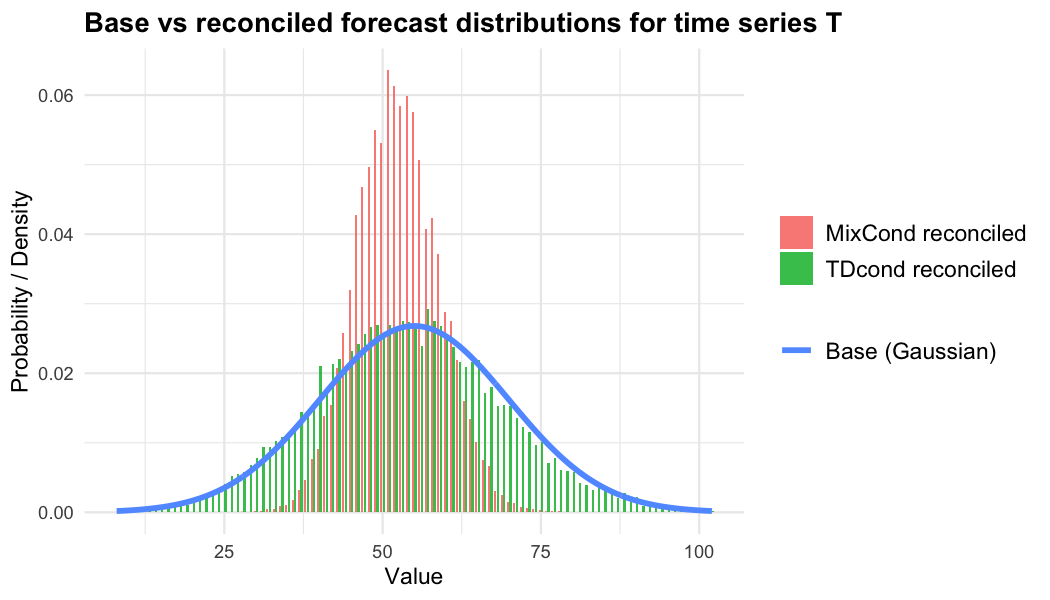
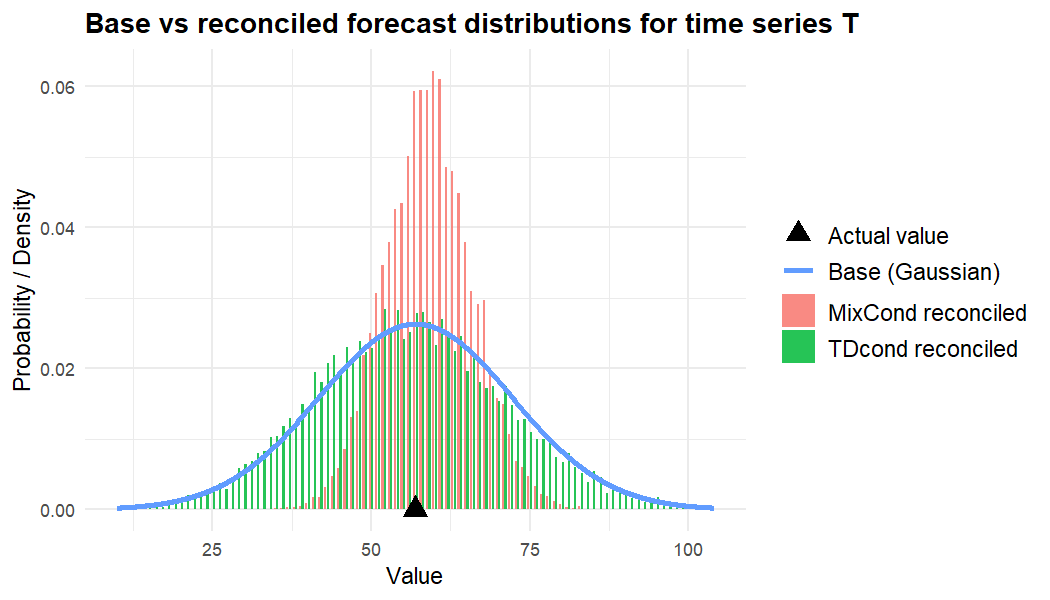
updated readme

diff --git a/README.md b/README.md
@@ -86,7 +86,7 @@ In each example, we
 
 ### Example 1: Gaussian forecast distributions
 
-<img src="./man/figures/hier_small_README.png" alt="" width="50%" style="display: block; margin: auto;" />
+<img src="./man/figures/hier_small_README.png" width="50%" style="display: block; margin: auto;" />
 
 <br />
 
@@ -193,7 +193,7 @@ Finally, we compare the reconciled forecast distributions for the top
 series T obtained with the two methods by plotting their marginal
 densities.
 
-<img src="man/figures/README-unnamed-chunk-7-1.png" alt="" width="75%" style="display: block; margin: auto;" />
+<img src="man/figures/README-unnamed-chunk-7-1.png" width="75%" style="display: block; margin: auto;" />
 
 ### Example 2: discrete forecast distributions
 
@@ -237,7 +237,7 @@ base_fc <- list()
 for (j in 1:ncol(Y_ts)) {
   yj <- Y_ts[,j]  # time series j
   X <- matrix(c(rep(1, length(yj)), seas), ncol = 2)  # matrix of exogenous regressors
-  X_new <- matrix(c(1, 2*sin(2*pi*61/12)), ncol = 2)  # regressors for the forecast period
+  X_new <- matrix(c(1, 1.5*sin(2*pi*(n_obs + 1)/12)), ncol = 2)  # regressors for the forecast period
   fit <- glarma::glarma(yj, X, type = "Poi")  # fit the model
   # Compute base forecasts, which are Poisson distributions specified by the rate parameter 
   fc_lambda <- glarma::forecast(fit, newdata = X_new, n.ahead = 1)$mu  
@@ -268,19 +268,19 @@ rownames(samples_buis) <- c("T", "A", "B", "AA", "AB", "BA", "BB")
 # Compute reconciled means
 print(round(rowMeans(samples_buis), 2))
 #>     T     A     B    AA    AB    BA    BB 
-#> 22.09  9.09 13.00  4.54  4.55  6.16  6.85
+#> 20.69  8.36 12.33  4.05  4.31  5.83  6.50
 
 # Compute upper quantiles of the reconciled forecast distributions:
 print(apply(samples_buis, 1, quantile, probs = c(0.80, 0.95)))
 #>      T  A  B AA AB BA BB
-#> 80% 25 11 15  6  6  8  9
-#> 95% 27 13 17  8  8 10 10
+#> 80% 23 10 14  5  6  8  8
+#> 95% 26 12 16  7  7  9 10
 ```
 
 Finally, we compare the base and reconciled forecasts for the top series
 T by plotting the base and reconciled forecast distributions.
 
-<img src="man/figures/README-unnamed-chunk-11-1.png" alt="" width="75%" style="display: block; margin: auto;" />
+<img src="man/figures/README-unnamed-chunk-11-1.png" width="75%" style="display: block; margin: auto;" />
 
 Similar results can be obtained with `reconc_MCMC`, which is a
 bare-bones implementation of the Metropolis-Hastings algorithm. However,
@@ -290,19 +290,24 @@ reconciling discrete forecasts.
 ### Example 3: mixed-type forecast distributions
 
 In many large hierarchies the bottom series are low-count integers
-(e.g. item-level sales), while the upper series can be considered as
-real-valued due to the smoothing effect of aggregation (e.g. total
+(e.g., item-level sales), while the upper series can be considered as
+real-valued due to the smoothing effect of aggregation (e.g., total
 sales). These hierarchies are often referred to as *mixed*, since
 forecasts for the bottom series are discrete distributions, while
 forecasts for the upper series are continuous distributions. The
 functions `reconc_MixCond` and `reconc_TDcond` handle this mixed case:
 they take a list of discrete distributions for the bottom level and a
-multivariate Gaussian for the upper levels.
+multivariate Gaussian for the upper levels. These functions implement
+different methods for reconciling mixed hierarchies; we recommend using
+`reconc_MixCond` for moderately sized hierarchies and `reconc_TDcond`
+for large hierarchies (see [Zambon et
+al. 2024](https://proceedings.mlr.press/v244/zambon24a.html) for
+details).
 
 Let us consider a hierarchy with 3 upper series and 52 bottom series
 arranged in 2 groups of 26:
 
-<img src="./man/figures/hier_large_README.png" alt="" width="50%" style="display: block; margin: auto;" />
+<img src="./man/figures/hier_large_README.png" width="50%" style="display: block; margin: auto;" />
 
 <br />
 
@@ -310,7 +315,7 @@ We randomly generate the bottom count time series as in Ex. 2; we then
 aggregate them using **A** to obtain the upper series.
 
 ``` r
-set.seed(12345)
+set.seed(12)
 n_b   <- 52   # number of bottom series 
 n_u   <- 3    # number of upper series
 n_obs <- 60   # series length
@@ -338,7 +343,7 @@ We show a comparison of upper and bottom time series. Even though the
 bottom series are made of low counts, the upper series can be considered
 as real-valued due to the smoothing effect of aggregation.
 
-<img src="man/figures/README-unnamed-chunk-14-1.png" alt="" width="75%" style="display: block; margin: auto;" />
+<img src="man/figures/README-unnamed-chunk-14-1.png" width="75%" style="display: block; margin: auto;" />
 
 We compute the one-step-ahead base forecasts for each upper series with
 an additive ETS model, implemented in the
@@ -370,7 +375,7 @@ base_fc_bottom <- list()
 for (j in seq_len(n_b)) {
   bj <- B_ts[,j]
   X <- matrix(c(rep(1, length(bj)), seas), ncol = 2)  # matrix of exogenous regressors
-  X_new <- matrix(c(1, 2*sin(2*pi*(n_obs + 1)/12)), ncol = 2)  # regressors for the forecast period
+  X_new <- matrix(c(1, 1 + .5*sin(2*pi*(n_obs + 1)/12)), ncol = 2)  # regressors for the forecast period
   fit <- glarma(bj, X, type = "Poi")
   # Bottom base forecasts are Poisson distributions, specified by the rate parameter 
   fc_lambda <- glarma::forecast(fit, newdata = X_new, n.ahead = 1)$mu
@@ -381,11 +386,8 @@ for (j in seq_len(n_b)) {
 
 We reconcile using both `reconc_MixCond` (importance-sampling based
 conditioning) and `reconc_TDcond` (top-down conditioning). These
-functions implement different methods for reconciling mixed hierarchies.
-We recommend using `reconc_MixCond` for moderately sized hierarchies and
-`reconc_TDcond` for large hierarchies (see [Zambon et
-al. 2024](https://proceedings.mlr.press/v244/zambon24a.html) for
-details).
+functions implement different methods for reconciling mixed hierarchies,
+but they share the same input arguments and output structure.
 
 ``` r
 res_mc <- reconc_MixCond(
@@ -406,8 +408,9 @@ res_td <- reconc_TDcond(
 The joint forecast distribution can be obtained by specifying
 `return_type = "samples"`. In this case, since we set
 `return_type = "pmf"`, the functions return the reconciled marginal
-forecast distributions as PMFs. From these PMFs, we can compute any
-desired summary (e.g. mean, quantiles, etc.) using the `PMF` functions.
+forecast distributions as probability mass functions (PMFs). From these
+PMFs, we can compute any desired summary (e.g. mean, quantiles, etc.)
+using the `PMF` functions.
 
 ``` r
 # Compare the upper means of the base and reconciled forecasts
@@ -419,9 +422,9 @@ upper_means <- rbind(
 colnames(upper_means) <- c("T", "A", "B")
 print(round(upper_means, 2))
 #>             T     A     B
-#> base    55.00 25.81 26.13
-#> MixCond 52.48 26.22 26.26
-#> TDcond  53.82 26.69 27.13
+#> base    56.98 19.84 34.31
+#> MixCond 59.24 23.55 35.68
+#> TDcond  55.99 20.42 35.57
 
 # Compare the 95% upper quantiles of the base and reconciled forecast distributions
 upper_q <- rbind(
@@ -432,16 +435,20 @@ upper_q <- rbind(
 colnames(upper_q) <- c("T", "A", "B")
 print(round(upper_q, 2))
 #>             T    A     B
-#> base    79.48 50.3 50.62
-#> MixCond 63.00 34.0 34.00
-#> TDcond  78.00 42.0 42.00
+#> base    81.93 44.8 59.26
+#> MixCond 71.00 30.0 44.00
+#> TDcond  81.00 34.0 51.00
 ```
 
 Finally, we compare the base forecast and the two reconciled forecast
 distributions for the top series T. The base distribution is a Gaussian
 density (line); the reconciled distributions are discrete PMFs (bars).
+The black triangle indicates the actual value of T. We refer to [Zambon
+et al. 2024](https://proceedings.mlr.press/v244/zambon24a.html) for a
+detailed comparison of the two methods for reconciling mixed hierarchies
+of different sizes.
 
-<img src="man/figures/README-unnamed-chunk-19-1.png" alt="" width="75%" style="display: block; margin: auto;" />
+<img src="man/figures/README-unnamed-chunk-19-1.png" width="75%" style="display: block; margin: auto;" />
 
 ## References
 
